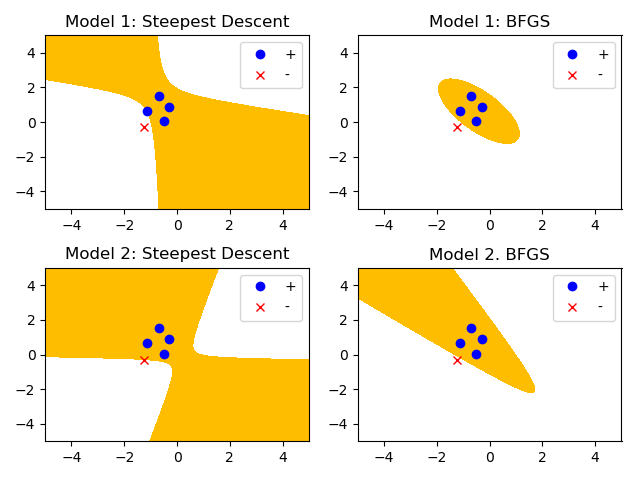
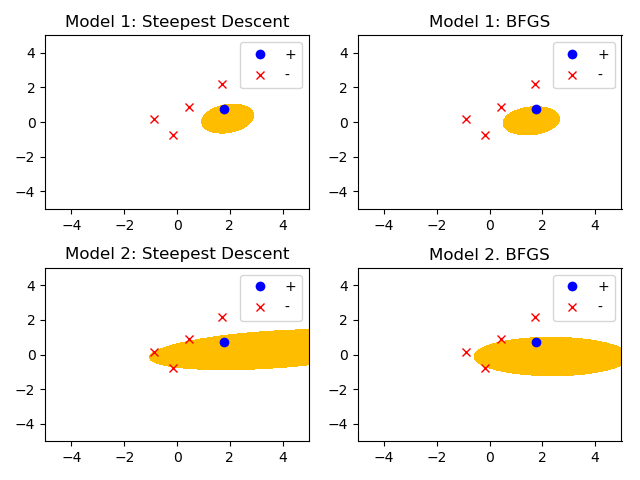
Random set2

diff --git a/Model2.py b/Model2.py
@@ -1,26 +1,12 @@
 import numpy as np
 import matplotlib.pyplot as plt
 import time
+import util
 
-def from_x_to_matrix(x):
-    n = int((-3 + np.sqrt(9+8*x.size))//2)
-    k = x.size - n
-    A = np.zeros((n, n))
-    b = np.zeros(n)
-    
-    #Insert first k coefficients into matrix
-    end = 0
-    for j in range(n):
-        start = end
-        end = start + n-j
-        A[j, j:] = x[start:end]
-        A[j+1:,j] = A[j, j+1:]
-    b = x[-n:] #Insert last n coefficients into vector
-    return A, b
 
 # Calculate h for single point z
 def hi(x, zi):
-    A, b = from_x_to_matrix(x)
+    A, b = util.from_x_to_matrix(x)
     return zi.dot(A.dot(zi)) + b.dot(zi) - 1
 
 # Calculate residual r for single point z
@@ -208,7 +194,7 @@ def evaluate_function(func, A, b, xlim = (-5, 5), ylim = (-5, 5)):
     y = np.linspace(*ylim, 101)
     xx, yy = np.meshgrid(x, y)
     X = np.stack((xx.flatten(), yy.flatten())).T
-    return xx, yy, H(X, A, b).reshape(xx.shape)
+    return xx, yy, func(X, A, b).reshape(xx.shape)
 
 
 # Minimize and visualize objective function values for a random set of points
@@ -216,7 +202,7 @@ def optimize_random(m, n, method, func, output = False):
     x, Z, W = generate_random(m, n)
     a, it = method(f, df, x, Z, W)
     print("Iterations: ", it)
-    A, b = from_x_to_matrix(a)
+    A, b = util.from_x_to_matrix(a)
     xx, yy, C = evaluate_function(func, A, b)
     
     fig = plt.figure()

diff --git a/Util.py b/Util.py
@@ -23,7 +23,7 @@ def generate_random(m, n, x_rand = False):
     Z = np.random.randn(m*n).reshape(m, n)
     W = np.random.choice([-1.0, 1.0], m)
     if x_rand:
-        x = np.random.randn(n+k)
+        x = np.random.randn(n+k) *5 
     else:
         x = np.array((1,0,1,0,0))
     return x, Z, W   
@@ -35,8 +35,10 @@ def generate_test_set(m, n, contourfunc, x_rand = False, misclass = False):
     W = (H > 0) * 1 + (H < 0) * (-1)
     if misclass:
         roll = np.random.rand(m)
-        H[H == 1] = (roll[H == 1] > 0.85) * -1 + (roll[H == 1] <= 0.85) * 1 
-        H[H == -1] = (roll[H == -1] > 0.85) * 1 + (roll[H == -1] <= 0.85) * -1 
+        flips = roll > 0.85
+        W = np.logical_and(np.logical_and(flips, W == 1), np.logical_and(np.logical_not(flips), W == -1)) * (-1) \
+                + np.logical_and(np.logical_and(flips, W == -1), np.logical_and(np.logical_not(flips), W == 1)) * 1
+        
     return x, Z, W
 
 
